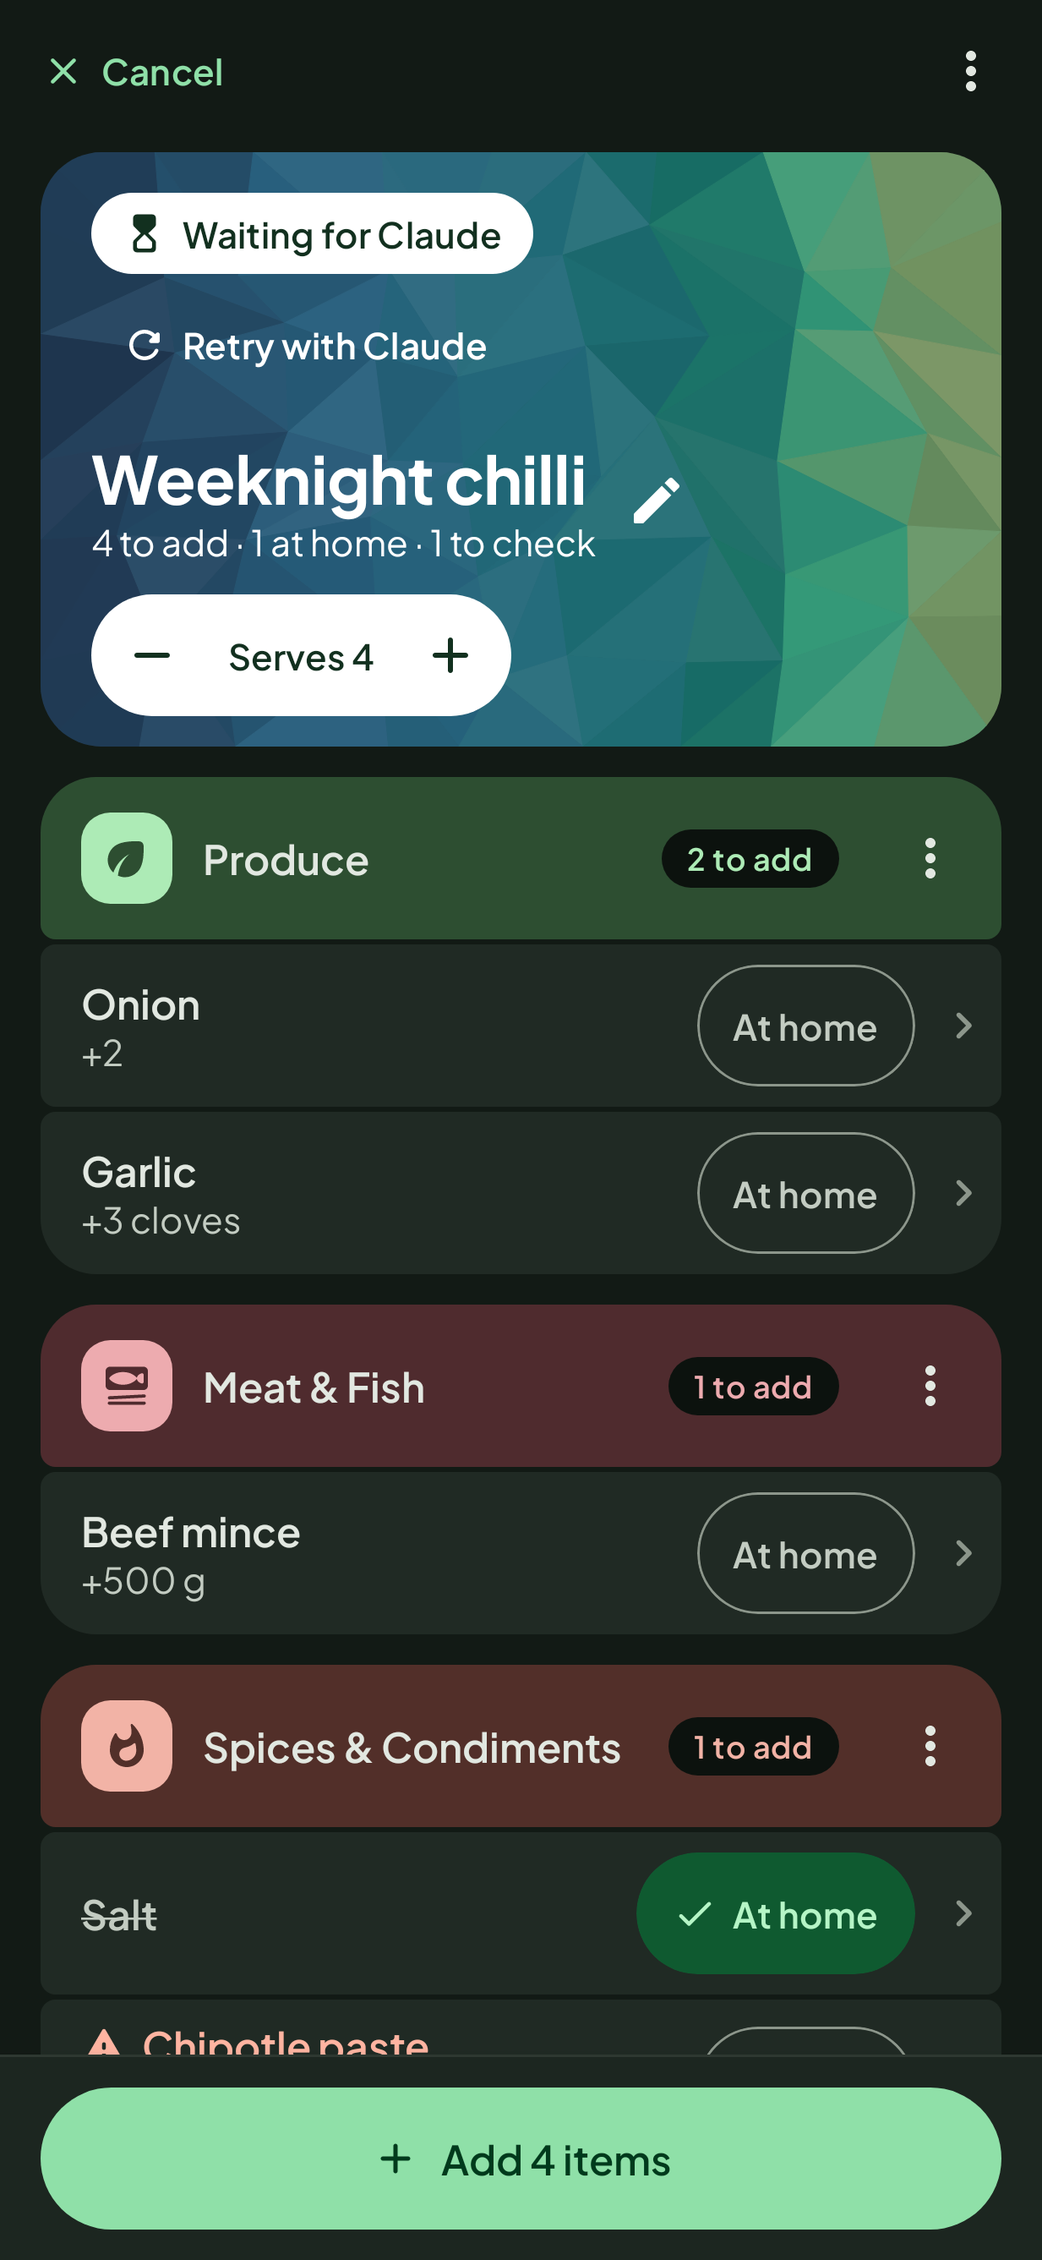
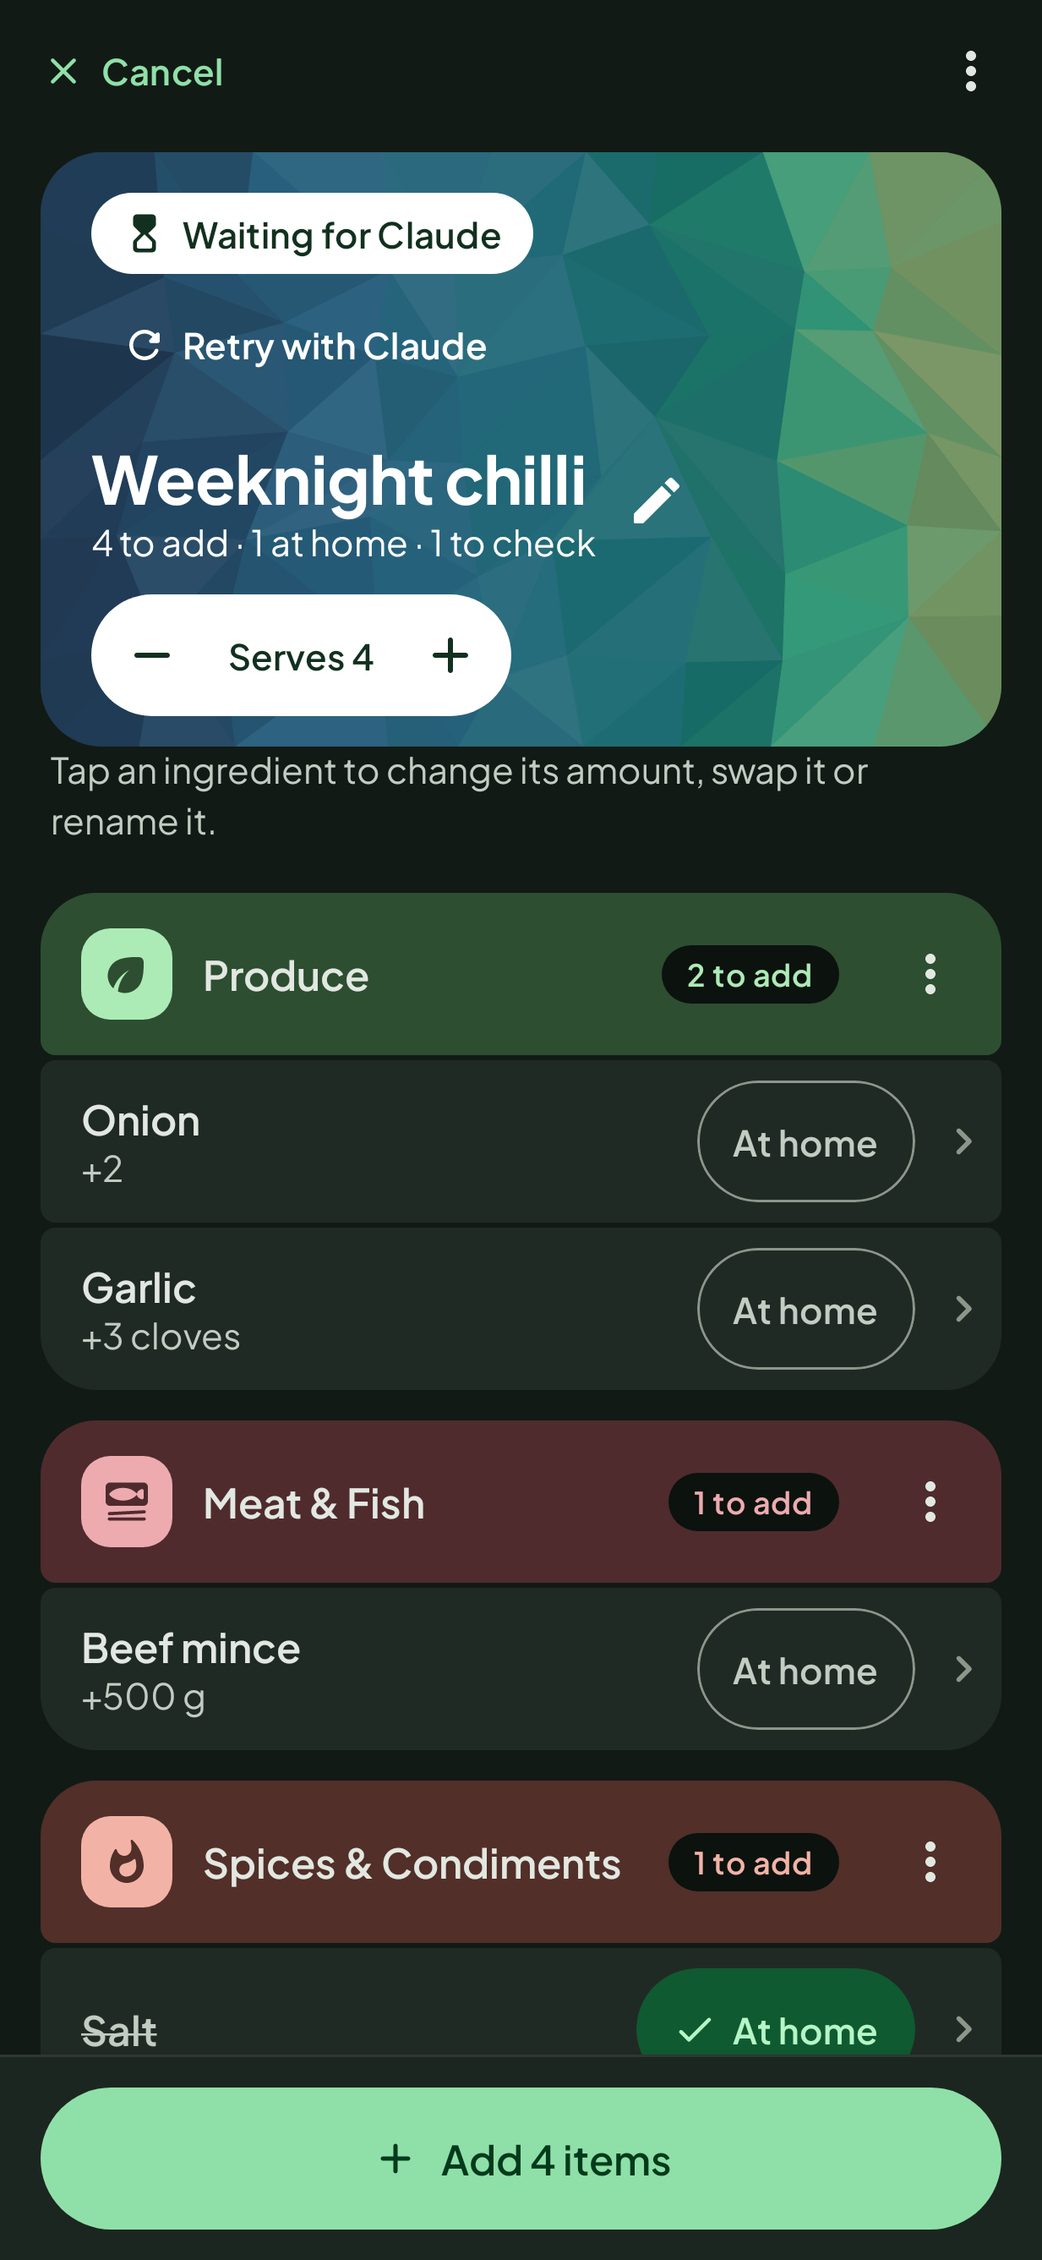
[X.4] Swap chips and an edit hint on the review; snackbars replace rather than queue, and go sooner
Claude-Session: https://claude.ai/code/session_016z2Qp5Lw5mkgJm6Jzuit5a

Changed region(s): [[0.0308, 0.3416, 0.9862, 0.9315], [0.3082, 0.9005, 0.4006, 0.9315]]

diff --git a/android/app/src/main/java/com/robert4lyf/hypershop/ui/review/ReviewRowSheet.kt b/android/app/src/main/java/com/robert4lyf/hypershop/ui/review/ReviewRowSheet.kt
@@ -25,6 +25,8 @@ import androidx.compose.material.icons.rounded.LocalMall
 import androidx.compose.material.icons.rounded.ReportProblem
 import androidx.compose.material.icons.rounded.SwapHoriz
 import androidx.compose.material3.AlertDialog
+import androidx.compose.material3.AssistChip
+import androidx.compose.material3.AssistChipDefaults
 import androidx.compose.material3.Button
 import androidx.compose.material3.ButtonDefaults
 import androidx.compose.material3.ExperimentalMaterial3Api
@@ -162,6 +164,7 @@ fun ReviewRowSheet(
                 InfoBanner("Check: ${ReviewViewModel.plainReason(reason)}", Icons.Rounded.ReportProblem, tone = Tone.WARNING)
             }
             SwitchRow("At home", sheet.inStock, actions.onInStock)
+            if (sheet.swaps.isNotEmpty()) SwapFor(sheet.swaps, actions.onRename)
             key(sheet.key) { Rename(sheet.name, actions.onRename, actions.renamePreview) }
             SectionLabel(if (sheet.lines.size == 1) "From the recipe" else "From the recipe (${sheet.lines.size} lines)")
             for (line in sheet.lines) key(line.id) { LineEditor(line, actions, canRemove = sheet.canRemove) }
@@ -198,6 +201,28 @@ private fun SwitchRow(
     ) {
         Text(label, Modifier.weight(1f), style = MaterialTheme.typography.bodyLarge)
         Switch(checked = on, onCheckedChange = null)
+    }
+}
+
+/** X.4: the catalogue's usual swaps, one tap each: the line becomes that, for this recipe only (a rename). */
+@OptIn(ExperimentalLayoutApi::class)
+@Composable
+private fun SwapFor(
+    swaps: List<String>,
+    onSwap: (String) -> Unit,
+) {
+    Column(verticalArrangement = Arrangement.spacedBy(8.dp)) {
+        SectionLabel("Swap for")
+        FlowRow(horizontalArrangement = Arrangement.spacedBy(8.dp), verticalArrangement = Arrangement.spacedBy(8.dp)) {
+            for (s in swaps) {
+                AssistChip(
+                    onClick = { onSwap(s) },
+                    label = { Text(s.replaceFirstChar { it.uppercase() }) },
+                    leadingIcon = { Icon(Icons.Rounded.SwapHoriz, contentDescription = null, Modifier.size(AssistChipDefaults.IconSize)) },
+                    modifier = Modifier.testTag("review-swap-$s"),
+                )
+            }
+        }
     }
 }
 

diff --git a/android/app/src/test/java/com/robert4lyf/hypershop/ui/SnackbarReplaceTest.kt b/android/app/src/test/java/com/robert4lyf/hypershop/ui/SnackbarReplaceTest.kt
@@ -1,0 +1,47 @@
+package com.robert4lyf.hypershop.ui
+
+import androidx.compose.material3.SnackbarHost
+import androidx.compose.material3.SnackbarHostState
+import androidx.compose.ui.test.junit4.createComposeRule
+import androidx.compose.ui.test.onNodeWithText
+import androidx.test.ext.junit.runners.AndroidJUnit4
+import com.robert4lyf.hypershop.testutil.TestContainer
+import com.robert4lyf.hypershop.ui.common.UiMessage
+import com.robert4lyf.hypershop.ui.list.show
+import org.junit.Rule
+import org.junit.Test
+import org.junit.runner.RunWith
+import org.robolectric.annotation.Config
+import org.robolectric.shadows.ShadowLooper
+
+/** X.4: snackbars do not queue; the newest takes the place of the one showing. */
+@RunWith(AndroidJUnit4::class)
+@Config(sdk = [34])
+class SnackbarReplaceTest {
+    @get:Rule val compose = createComposeRule()
+
+    @Test
+    fun theNewestReplacesTheOneShowing() {
+        val c = TestContainer.create()
+        val host = SnackbarHostState()
+        compose.setContent { SnackbarHost(host) }
+        compose.runOnIdle { show(c, host, UiMessage("rice vinegar at home", undo = {})) }
+        compose.waitUntil(5_000) {
+            ShadowLooper.idleMainLooper()
+            host.currentSnackbarData?.visuals?.message == "rice vinegar at home"
+        }
+        compose.runOnIdle {
+            show(c, host, UiMessage("salt at home", undo = {}))
+            show(c, host, UiMessage("soy sauce at home", undo = {}))
+        }
+        compose.waitUntil(5_000) {
+            ShadowLooper.idleMainLooper()
+            host.currentSnackbarData?.visuals?.message == "soy sauce at home"
+        }
+        compose.onNodeWithText("rice vinegar at home").assertDoesNotExist()
+        // Nothing waits behind it: dismissed, nothing else appears.
+        compose.runOnIdle { host.currentSnackbarData?.dismiss() }
+        compose.waitForIdle()
+        compose.runOnIdle { assert(host.currentSnackbarData == null) { "queued: ${host.currentSnackbarData?.visuals?.message}" } }
+    }
+}

diff --git a/android/app/src/main/java/com/robert4lyf/hypershop/ui/list/ListRoute.kt b/android/app/src/main/java/com/robert4lyf/hypershop/ui/list/ListRoute.kt
@@ -106,17 +106,27 @@ fun ListRoute(
     }
 }
 
-/** Shows [m] with Undo for [UiMessage.seconds], outliving the screen that asked. */
+/**
+ * Shows [m] with Undo for [UiMessage.seconds], outliving the screen that asked. A newer message replaces it, even
+ * one still waiting its turn: the request before is cancelled, so nothing queues up behind the row being tapped.
+ */
 fun show(
     container: AppContainer,
     snackbar: SnackbarHostState,
     m: UiMessage,
 ) {
-    container.applicationScope.launch(kotlinx.coroutines.Dispatchers.Main) {
-        val r = snackbar.showTimed(m.text, m.undo?.let { m.action }, m.seconds)
-        if (r == SnackbarResult.ActionPerformed) m.undo?.invoke()
-    }
+    val previous = showing[snackbar]
+    val job =
+        container.applicationScope.launch(kotlinx.coroutines.Dispatchers.Main) {
+            previous?.cancel()
+            val r = snackbar.showTimed(m.text, m.undo?.let { m.action }, m.seconds)
+            if (r == SnackbarResult.ActionPerformed) m.undo?.invoke()
+        }
+    showing[snackbar] = job
 }
+
+/** The latest request per host (main thread only), so the next one can take its place. */
+private val showing = java.util.WeakHashMap<SnackbarHostState, kotlinx.coroutines.Job>()
 
 /**
  * Shows a snackbar for [seconds] once it is on screen. The clock starts when
@@ -130,6 +140,9 @@ suspend fun SnackbarHostState.showTimed(
     seconds: Int,
 ): SnackbarResult {
     val visuals = TimedVisuals(text, action)
+    // The newest replaces what is showing (X.4): queued, five "at home" taps played back one after another for a
+    // minute, each over the row being tapped. Its Undo goes with it; the newest action's Undo is the one shown.
+    currentSnackbarData?.dismiss()
     return coroutineScope {
         val timer =
             launch {

diff --git a/android/app/src/main/java/com/robert4lyf/hypershop/ui/review/ReviewScreen.kt b/android/app/src/main/java/com/robert4lyf/hypershop/ui/review/ReviewScreen.kt
@@ -131,7 +131,7 @@ fun ReviewScreen(
     val addFocus = remember { FocusRequester() }
     // "Add an ingredient" in the menu: the field is the last item, so scroll it in, then focus it.
     var focusAdd by remember { mutableIntStateOf(0) }
-    val itemCount = 1 + (if (ui.notice != null) 1 else 0) + ui.aisles.sumOf { it.second.size + 1 } + 1
+    val itemCount = 2 + (if (ui.notice != null) 1 else 0) + ui.aisles.sumOf { it.second.size + 1 } + 1
     LaunchedEffect(focusAdd) {
         if (focusAdd == 0) return@LaunchedEffect
         list.animateScrollToItem(itemCount - 1)
@@ -152,6 +152,15 @@ fun ReviewScreen(
                             Tone.PRIMARY,
                         )
                     }
+                }
+                // X.4: the sheet behind each row is where a line is changed or swapped; say so once.
+                item(key = "edit-hint") {
+                    Text(
+                        "Tap an ingredient to change its amount, swap it or rename it.",
+                        style = MaterialTheme.typography.bodyMedium,
+                        color = MaterialTheme.colorScheme.onSurfaceVariant,
+                        modifier = Modifier.padding(horizontal = 20.dp).padding(bottom = 8.dp).testTag("edit-hint"),
+                    )
                 }
                 for ((aisle, rows) in ui.aisles) {
                     val count = rows.size + 1

diff --git a/android/app/src/test/java/com/robert4lyf/hypershop/ui/review/ReviewScreenTest.kt b/android/app/src/test/java/com/robert4lyf/hypershop/ui/review/ReviewScreenTest.kt
@@ -8,6 +8,7 @@ import androidx.compose.ui.test.assertIsEnabled
 import androidx.compose.ui.test.assertIsNotEnabled
 import androidx.compose.ui.test.assertTextContains
 import androidx.compose.ui.test.assertTextEquals
+import androidx.compose.ui.test.hasScrollAction
 import androidx.compose.ui.test.hasText
 import androidx.compose.ui.test.isHeading
 import androidx.compose.ui.test.junit4.createComposeRule
@@ -18,6 +19,7 @@ import androidx.compose.ui.test.onNodeWithTag
 import androidx.compose.ui.test.onNodeWithText
 import androidx.compose.ui.test.onRoot
 import androidx.compose.ui.test.performClick
+import androidx.compose.ui.test.performScrollToNode
 import androidx.compose.ui.unit.dp
 import androidx.test.ext.junit.runners.AndroidJUnit4
 import com.github.takahirom.roborazzi.captureRoboImage
@@ -138,6 +140,7 @@ class ReviewScreenTest {
         compose.onNodeWithContentDescription("More servings").performClick()
         assertEquals(listOf("servings 1"), events)
         compose.onNodeWithTag("summary").assertTextEquals("4 to add · 1 at home · 1 to check")
+        compose.onNode(hasScrollAction()).performScrollToNode(hasText("Check: has 'or'"))
         compose.onNodeWithText("Check: has 'or'").fetchSemanticsNode()
     }
 

diff --git a/android/app/src/main/java/com/robert4lyf/hypershop/ui/review/ReviewRoute.kt b/android/app/src/main/java/com/robert4lyf/hypershop/ui/review/ReviewRoute.kt
@@ -159,7 +159,7 @@ fun ReviewRoute(
                 }
                 // Outlives this screen: the snackbar and its Undo belong to the list.
                 container.applicationScope.launch(Dispatchers.Main) {
-                    val r = snackbar.showTimed("Added ${s.count} items", "Undo", 10)
+                    val r = snackbar.showTimed("Added ${s.count} items", "Undo", 6)
                     if (r == SnackbarResult.ActionPerformed) container.repository.undoImport(s.useId)
                 }
             }
@@ -173,7 +173,7 @@ fun ReviewRoute(
                 }
                 // The job is only done for good once Undo has had its chance; Undo puts it back and opens it again.
                 container.applicationScope.launch(Dispatchers.Main) {
-                    val r = snackbar.showTimed("Import discarded", "Undo", 10)
+                    val r = snackbar.showTimed("Import discarded", "Undo", 6)
                     if (r == SnackbarResult.ActionPerformed) {
                         container.importJobs.restore(jobId)
                         onUndo(jobId)

diff --git a/android/app/src/test/java/com/robert4lyf/hypershop/ui/review/ReviewRowSheetTest.kt b/android/app/src/test/java/com/robert4lyf/hypershop/ui/review/ReviewRowSheetTest.kt
@@ -160,6 +160,16 @@ class ReviewCorrectionsTest {
     }
 
     @Test
+    fun aSwapIsOneTapBeforeAnythingIsBought() {
+        // X.4: the catalogue's usual swaps are on the review's sheet; one becomes the line, for this recipe only.
+        val (_, vm) = vm("1 tsp dried thyme")
+        val swaps = vm.sheet("cat:dried_thyme")!!.swaps
+        assertTrue(swaps.toString(), "dried oregano" in swaps)
+        vm.rename("cat:dried_thyme", "dried oregano")
+        await(vm.state) { it is ReviewState.Ready && it.ui().row("cat:dried_oregano", null) != null }
+    }
+
+    @Test
     fun theAmountIsSetFromTypedText() {
         val (_, vm) = vm("2 onions")
         // The recipe is stored again after each change, so the sheet's line ids are read afresh.

diff --git a/android/app/src/main/java/com/robert4lyf/hypershop/ui/common/UiMessage.kt b/android/app/src/main/java/com/robert4lyf/hypershop/ui/common/UiMessage.kt
@@ -1,13 +1,13 @@
 package com.robert4lyf.hypershop.ui.common
 
 /**
- * A snackbar request; [undo] runs when "Undo" is tapped. A message with Undo
- * stays 10 s so there is time to act; a plain notice goes after 4 s.
+ * A snackbar request; [undo] runs when "Undo" is tapped. A message with Undo stays 5 s, a plain notice 3 s
+ * (X.4: ten seconds over the bottom of the list hid the row being worked on). A newer one replaces it.
  */
 data class UiMessage(
     val text: String,
     val undo: (suspend () -> Unit)? = null,
-    val seconds: Int = if (undo != null) 10 else 4,
+    val seconds: Int = if (undo != null) 5 else 3,
     /** The action's label: "Undo", or what else a tap does ("Add 1 more"). */
     val action: String = "Undo",
 )

diff --git a/android/app/src/main/java/com/robert4lyf/hypershop/ui/review/ReviewViewModel.kt b/android/app/src/main/java/com/robert4lyf/hypershop/ui/review/ReviewViewModel.kt
@@ -94,6 +94,8 @@ data class RowSheet(
     val isStaple: Boolean,
     /** False when the recipe has one line: it can't be removed. */
     val canRemove: Boolean = true,
+    /** The catalogue's usual swaps ("Swap for" on the list's sheet), offered here before anything is bought. */
+    val swaps: List<String> = emptyList(),
 )
 
 data class ReviewUi(
@@ -806,6 +808,7 @@ class ReviewViewModel(
             row.decision.inStock,
             entry != null && row.decision.inStock,
             canRemove = p.incoming.lines.size > 1,
+            swaps = entry?.swaps.orEmpty().mapNotNull { c.catalog.byId[it]?.name },
         )
     }
 

diff --git a/android/core/src/main/kotlin/com/robert4lyf/hypershop/core/catalog/Catalog.kt b/android/core/src/main/kotlin/com/robert4lyf/hypershop/core/catalog/Catalog.kt
@@ -86,6 +86,9 @@ object DefaultSwaps {
             listOf("chilli_flakes", "chilli_powder", "cayenne"),
             listOf("dijon", "wholegrain_mustard"),
             listOf("white_wine", "vermouth"),
+            listOf("dried_thyme", "dried_oregano", "dried_mixed_herbs", "dried_dill"),
+            listOf("red_wine", "beef_stock"),
+            listOf("balsamic", "red_wine_vinegar"),
         )
 
     /** Every id named in a group (a test checks they are all in the catalogue). */

diff --git a/PROGRESS.md b/PROGRESS.md
@@ -265,3 +265,4 @@ Run 2 stops here. The yes/no checks (install, probe, sync, offline, memory, glan
 - [x] X.1 Units checked against how things are bought. Nutella had no catalogue row, so it kept the recipe's cups as ml: new `chocolate_spread` (Nutella, chocolate hazelnut spread; by weight, 1 × 400 g jar, 296 g a cup from the label's 2 tbsp = 37 g), so "½ cup Nutella" reads 160 g (spoons stay spoons, as everywhere). Jam was a count, unlike honey and peanut butter: now one jar with the amount beside it. The review rows and the "at home" rows used the old amount while the list used W.2's buying unit, so "200g bananas" read 200 g on review and 2 on the list: both now go through `Display.brief`, the list row's own answer. Audit of the rest: every thing bought by the each is a count; the volume rows are milks, creams, stocks and juices. Saved recipes show their lines as written, by design — check: `DisplayBuyTest`, `ReviewRowSheetTest`
 - [x] X.2 A recipe without a photo has a band as tall as one with (its mosaic), on Your list and Saved, so the cards line up — check: `RecipesScreenTest.aRecipeWithoutAPhotoHasABandAsTallAsOneWith`. Lime juice typed into the list by hand ("4 tbsp lime juice") went on as a bottle: a typed line now goes through the same juice-as-fruit step as a recipe's (2 limes; "bottled" still a bottle) — check: `ListViewModelTest.limeJuiceTypedInIsLimesUnlessItSaysBottled`. A lime juice row already on a list, or in Buy again's history from before V.2, stays as it is until it is added again
 - [x] X.3 Only your staples start "At home" on a review. A line the recipe calls optional or a garnish was pre-ticked too, which read as random rows marked at home (more of them since Claude reads every recipe): it is now added like anything else, its row saying "optional" so it is one tap to leave out. Meat and fish keep their weight on the list ("800g chicken breast", not "3 packs"): packs come in too many sizes for a count to help; a counted line ("2 chicken breasts") stays as written. Basket 146 → 148 — check: `ContributionsTest.inStockAndDefaults`, `ReviewViewModelTest`, `DisplayBuyTest.meatAndFishKeepTheirWeight`
+- [x] X.4 Changing a recipe while adding it: the review says "Tap an ingredient to change its amount, swap it or rename it", and the row's sheet now offers the catalogue's usual swaps as one-tap chips (dried herbs, red wine/stock, balsamic/red wine vinegar added to the groups); a swap renames the line for this recipe only. "Sweet hungarian paprika" is paprika and dried dill has its own row (one jar). Snackbars no longer queue: the newest replaces the one showing, even one still waiting its turn, and they stay 5 s with Undo (was 10) and 3 s without (was 4) — check: `ReviewRowSheetTest.aSwapIsOneTapBeforeAnythingIsBought`, `SnackbarReplaceTest` (fails with the old queue)

diff --git a/catalog/REVIEW.md b/catalog/REVIEW.md
@@ -1,10 +1,10 @@
 # Catalogue review (generated — do not edit)
 
-Generated by `tools/catalog/build_catalog.py` from `catalog/ingredients.csv` (version `6015c579245d`).
+Generated by `tools/catalog/build_catalog.py` from `catalog/ingredients.csv` (version `d3b89840c6a0`).
 Rows marked `src=agent-estimate` were written by an agent; `src=sourced` rows have their pack size and weight from a retailer listing or USDA FoodData Central (links in SOURCES.md, W.3).
 Tick a row if it is right; fix it in `ingredients.csv` (and set `src=user`) if not.
 
-523 items · 5 staples · 165 pack notes.
+524 items · 5 staples · 165 pack notes.
 
 ## PRODUCE (113)
 
@@ -490,7 +490,7 @@ Tick a row if it is right; fix it in `ingredients.csv` (and set `src=user`) if n
 | ☐ | malt vinegar |  | Vinegars |  |  |  |
 | ☐ | balsamic glaze | balsamic reduction | Vinegars |  |  |  |
 
-## SPICES_CONDIMENTS (58)
+## SPICES_CONDIMENTS (59)
 
 | ✓ | name | also matches | group | NYT rank | staple | pack note |
 |---|---|---|---|---|---|---|
@@ -502,7 +502,7 @@ Tick a row if it is right; fix it in `ingredients.csv` (and set `src=user`) if n
 | ☐ | cumin seeds | cumin seed, whole cumin seeds | Herbs & spices | 106 |  | 1 × 37 g jar |
 | ☐ | ground coriander | coriander powder | Herbs & spices |  |  | 1 × 36 g jar |
 | ☐ | coriander seeds | coriander seed, whole coriander seeds | Herbs & spices | 109 |  |  |
-| ☐ | paprika | sweet paprika, hungarian paprika, paprika powder | Herbs & spices | 95 |  | 1 × 44 g jar |
+| ☐ | paprika | sweet paprika, hungarian paprika, paprika powder, sweet hungarian paprika … | Herbs & spices | 95 |  | 1 × 44 g jar |
 | ☐ | smoked paprika | pimenton, spanish smoked paprika, sweet smoked paprika, hot smoked paprika … | Herbs & spices |  |  | 1 × 48 g jar |
 | ☐ | cayenne pepper | cayenne, ground red pepper | Herbs & spices | 61 |  | 1 × 48 g jar |
 | ☐ | chilli flakes | red pepper flakes, red-pepper flakes, crushed red pepper, crushed red pepper flakes … | Herbs & spices | 80 |  | 1 × 28 g jar |
@@ -523,6 +523,7 @@ Tick a row if it is right; fix it in `ingredients.csv` (and set `src=user`) if n
 | ☐ | mustard seeds | mustard seed, black mustard seeds | Herbs & spices | 306 |  |  |
 | ☐ | dried oregano | oregano | Herbs & spices | 76 |  | 1 × 14 g jar |
 | ☐ | dried thyme |  | Herbs & spices |  |  |  |
+| ☐ | dried dill | dill weed, dried dill weed | Herbs & spices |  |  |  |
 | ☐ | dried mixed herbs | herbes de provence, italian seasoning | Herbs & spices |  |  | 1 × 14 g jar |
 | ☐ | curry powder | madras curry powder, hot curry powder, mild curry powder | Herbs & spices | 122 |  | 1 × 80 g jar |
 | ☐ | garam masala |  | Herbs & spices |  |  | 1 × 38 g jar |
